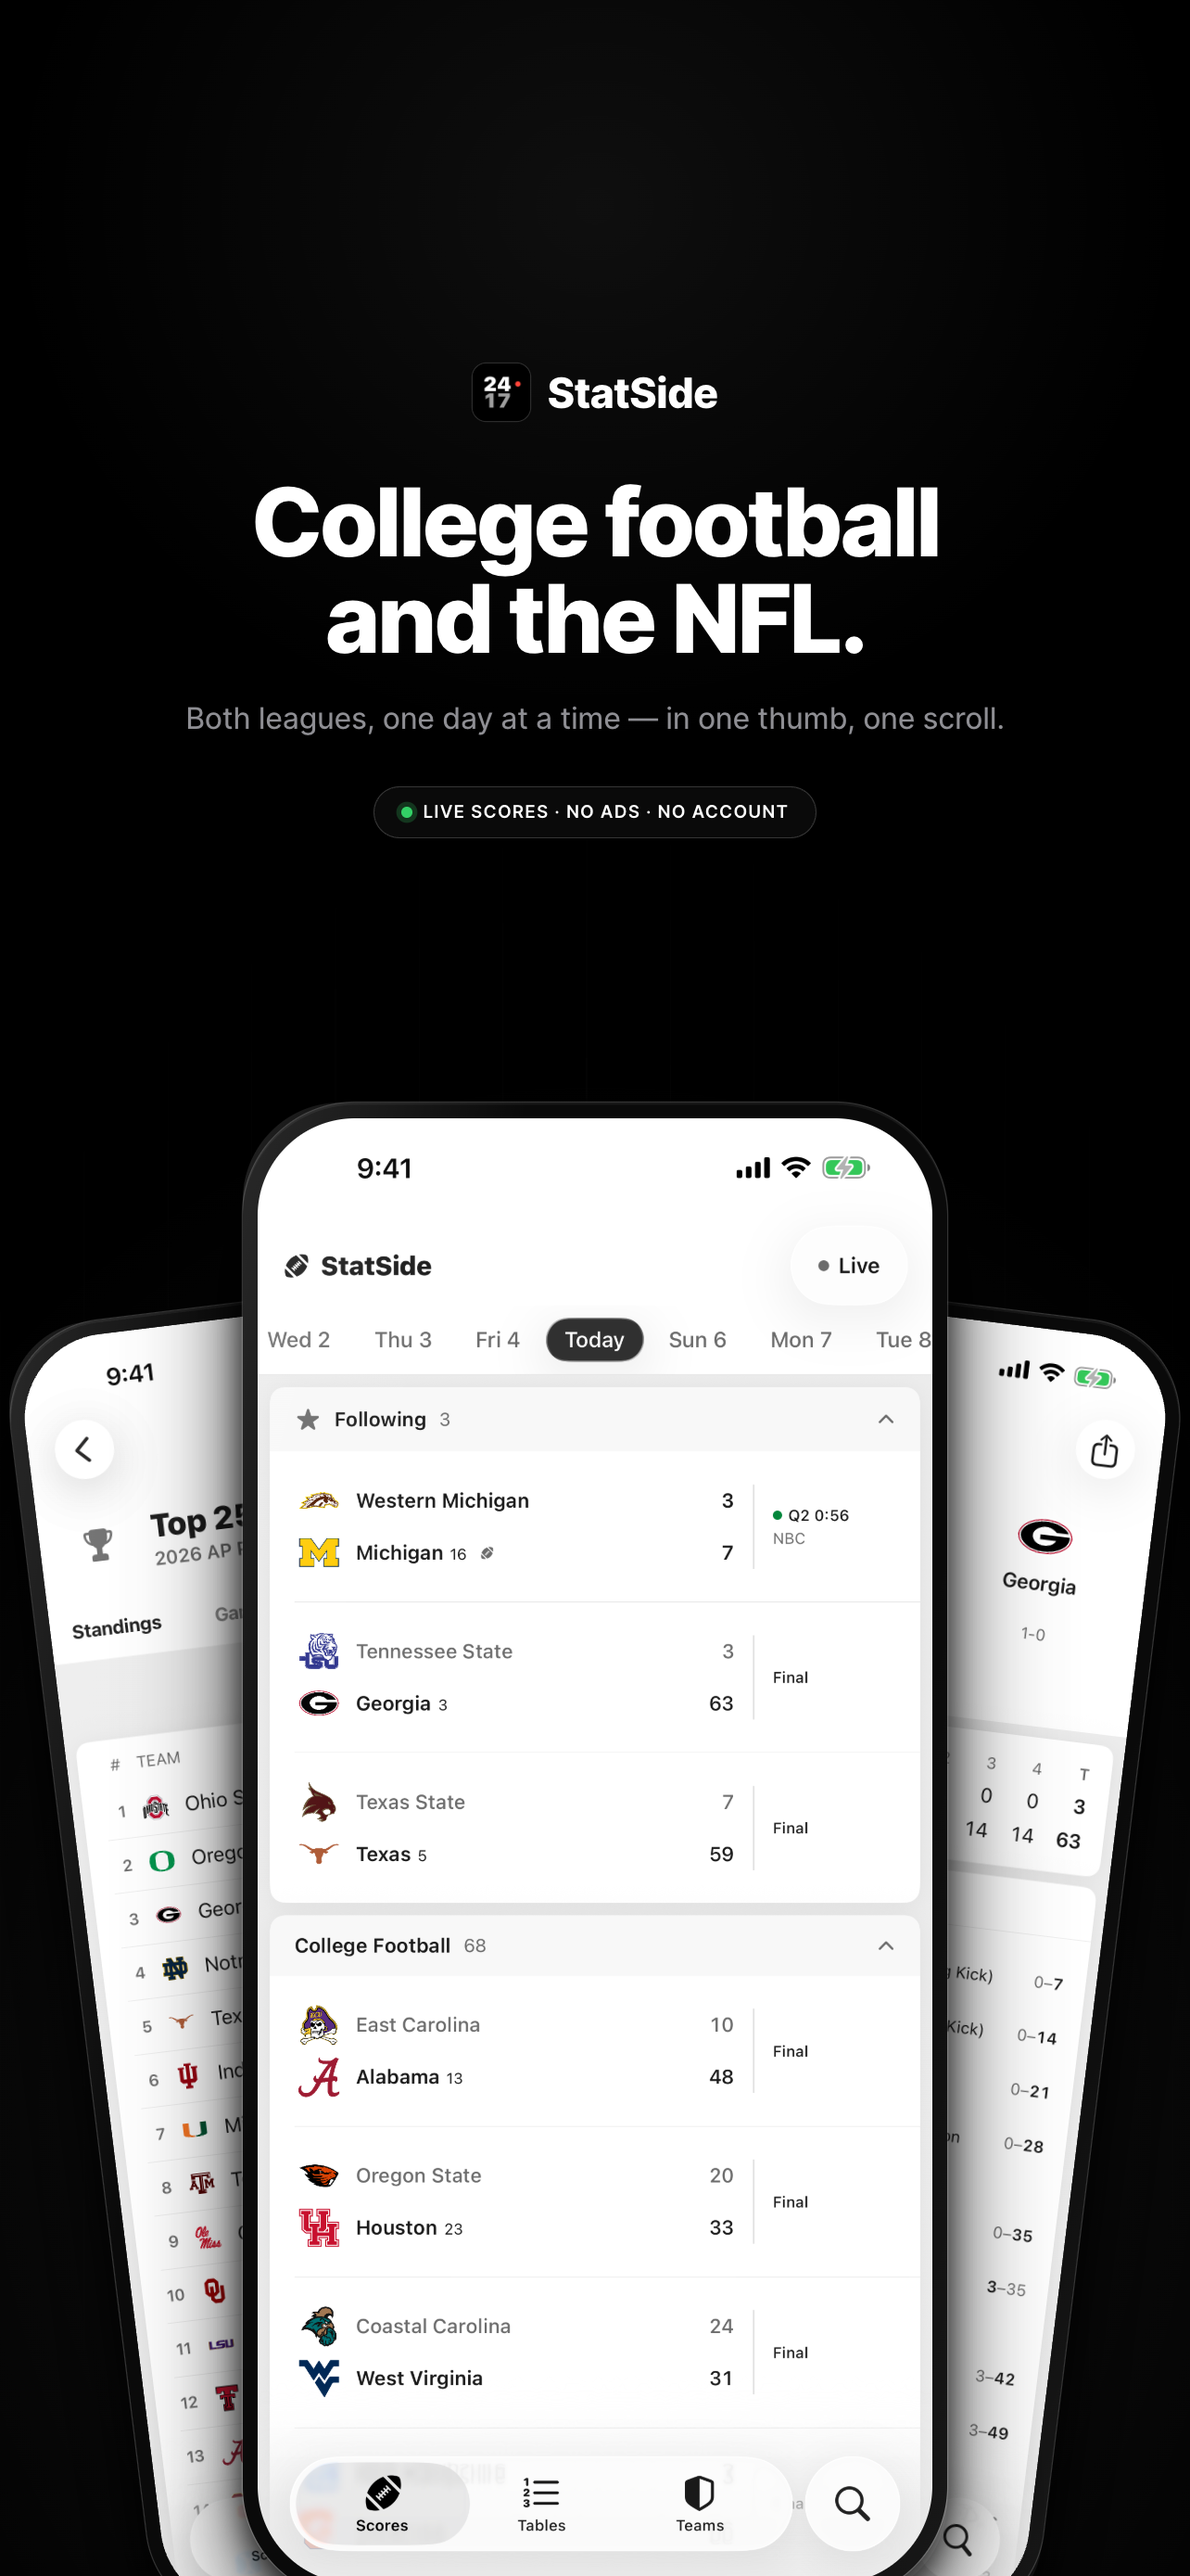
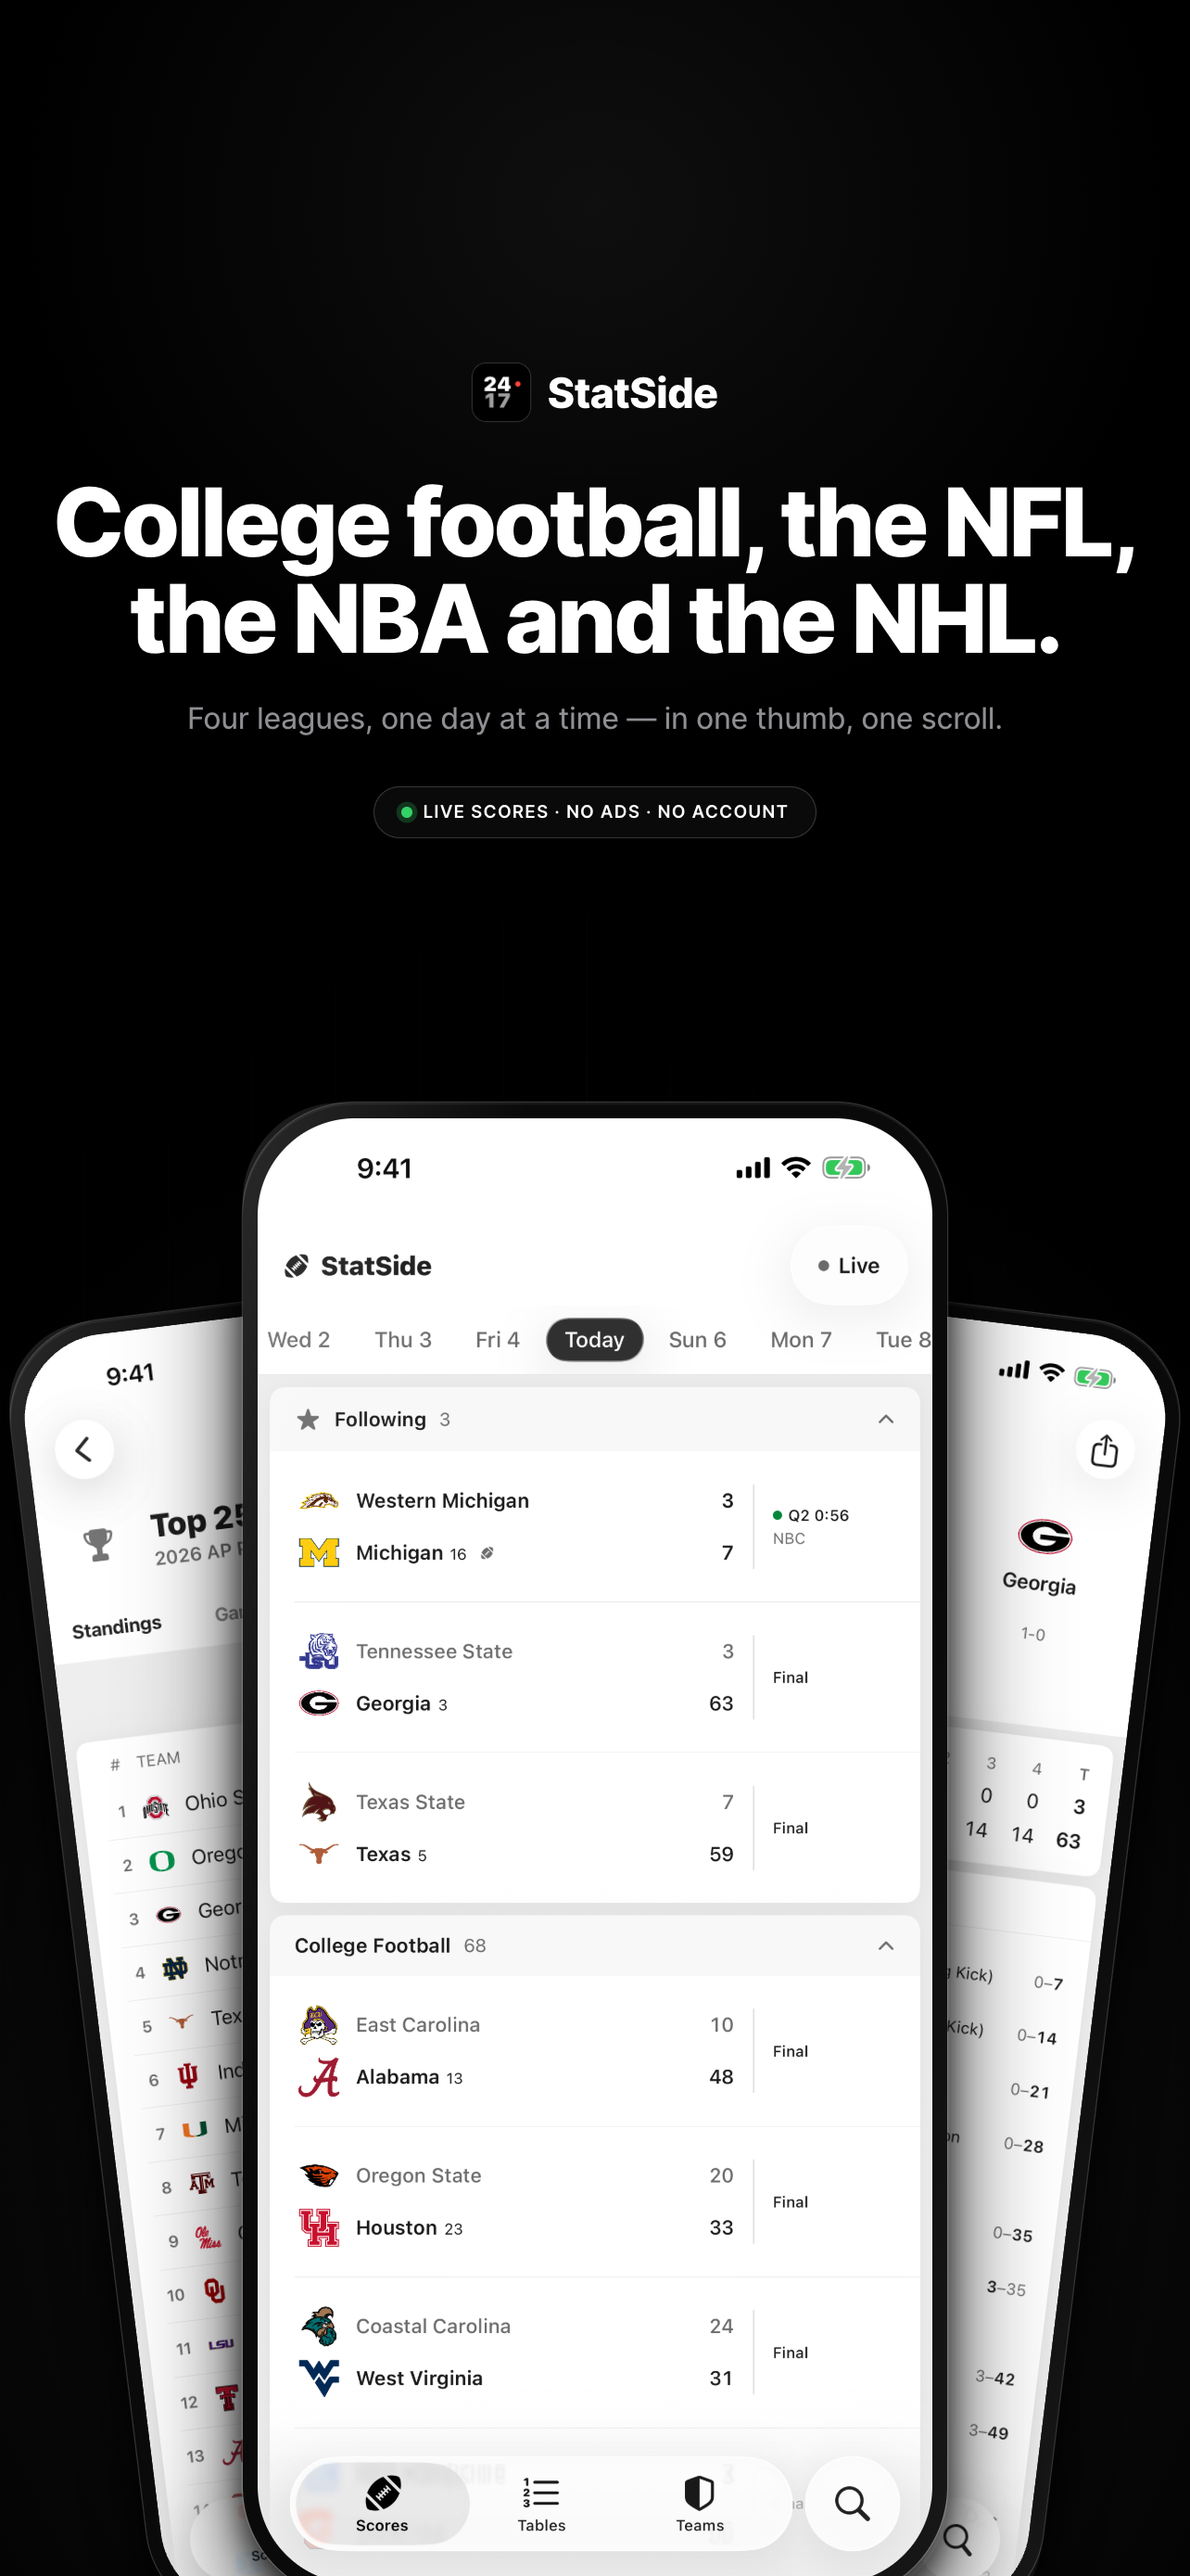
Stop the App Store frames saying two leagues
Five of the eight marketing frames carried copy that the NBA/NHL release
makes false or stale. Three were plainly wrong — 01-hero's "College
football and the NFL" and its "Both leagues" sub, 02-follow's "any team in
either league", and 08-closer's "Two leagues, done right" — and the
closer's disclaimer named only the NFL and the NCAA, the same hole the
description had.

Two more were football's calendar rather than the app's: 03-saturdays was
kickered "Built for the weekend" over "One screen, whole weekend", and
04-week's headline was "Saturday. Then Sunday." The NBA and the NHL play
most nights from October to June, so the weekend framing stopped being the
promise. They read "Built for game day" / "whole season" and "Saturday.
Sunday. Every night." now.

05-rankings and 06-boxscore keep their football words ("drive log",
"passing, rushing, receiving") on purpose: both frames are *showing*
football screenshots, so league-neutral copy there would be vaguer without
being truer. 07-quiet makes no league claim at all.

Text-only edits over the captures already behind them, re-rendered at both
sizes from the same sources. Verified 1284x2778 and 1320x2868 exactly —
ASC rejects anything else — and eyeballed: the longer hero headline still
sets on two lines, and the closer's longer disclaimer still fits its
measure.

Does not close the screenshot gap. The captures underneath are the
2026-09-05 set and predate the tab rename, the floating Today button, the
[…]

Changed region(s): [[0.0312, 0.1857, 0.9346, 0.2786]]

diff --git a/docs/social/src/as-08-closer.html b/docs/social/src/as-08-closer.html
@@ -41,8 +41,8 @@
     <div class="head">
       <img class="icon" src="../../../sports/Assets.xcassets/AppIcon.appiconset/AppIcon.png">
       <div class="wordmark">StatSide</div>
-      <div class="headline">Free. Fast.<br>Two leagues, done right.</div>
-      <div class="fine">An independent app. Not affiliated with or endorsed by the NFL, the NCAA, or any conference, team or school.</div>
+      <div class="headline">Free. Fast.<br>Four leagues, done right.</div>
+      <div class="fine">An independent app. Not affiliated with or endorsed by the NFL, the NBA, the NHL, the NCAA, or any conference, team or school.</div>
     </div>
   </div>
 </div>

diff --git a/docs/social/src/as-03-saturdays.html b/docs/social/src/as-03-saturdays.html
@@ -31,8 +31,8 @@
         <img src="../../../sports/Assets.xcassets/AppIcon.appiconset/AppIcon.png">
         <div class="wordmark">StatSide</div>
       </div>
-      <div class="kicker">Built for the weekend</div>
-      <div class="headline">One screen,<br>whole weekend.</div>
+      <div class="kicker">Built for game day</div>
+      <div class="headline">One screen,<br>whole season.</div>
       <ul class="bullets">
         <li><b>Your teams first</b> — their games lead the page</li>
         <li><b>Each league</b> in its own section on the day you're on</li>

diff --git a/docs/social/src/as-01-hero.html b/docs/social/src/as-01-hero.html
@@ -58,8 +58,8 @@
         <div class="wordmark">StatSide</div>
       </div>
 
-      <div class="headline">College football<br>and the NFL.</div>
-      <div class="sub">Both leagues, one day at a time — in one thumb, one scroll.</div>
+      <div class="headline">College football, the NFL,<br>the NBA and the NHL.</div>
+      <div class="sub">Four leagues, one day at a time — in one thumb, one scroll.</div>
       <div class="pill"><span class="dot"></span> Live scores · No ads · No account</div>
     </div>
 

diff --git a/docs/social/src/as-02-follow.html b/docs/social/src/as-02-follow.html
@@ -54,7 +54,7 @@
       </div>
       <div class="kicker">Following</div>
       <div class="headline">Your teams<br>lead the page.</div>
-      <div class="sub">Follow any team in either league and their games sit together at the top — before you scroll anything else.</div>
+      <div class="sub">Follow any team in any league and their games sit together at the top — before you scroll anything else.</div>
     </div>
 
     <div class="crop follow"><img src="../../appstore/screenshots/06-team-page.png"></div>

diff --git a/docs/social/src/as-04-week.html b/docs/social/src/as-04-week.html
@@ -49,7 +49,7 @@
         <div class="wordmark">StatSide</div>
       </div>
       <div class="kicker">A day at a time</div>
-      <div class="headline">Saturday.<br>Then Sunday.</div>
+      <div class="headline">Saturday. Sunday.<br>Every night.</div>
       <div class="sub">A day at a time, all season — swipe forward, or jump back to today.</div>
     </div>
 
